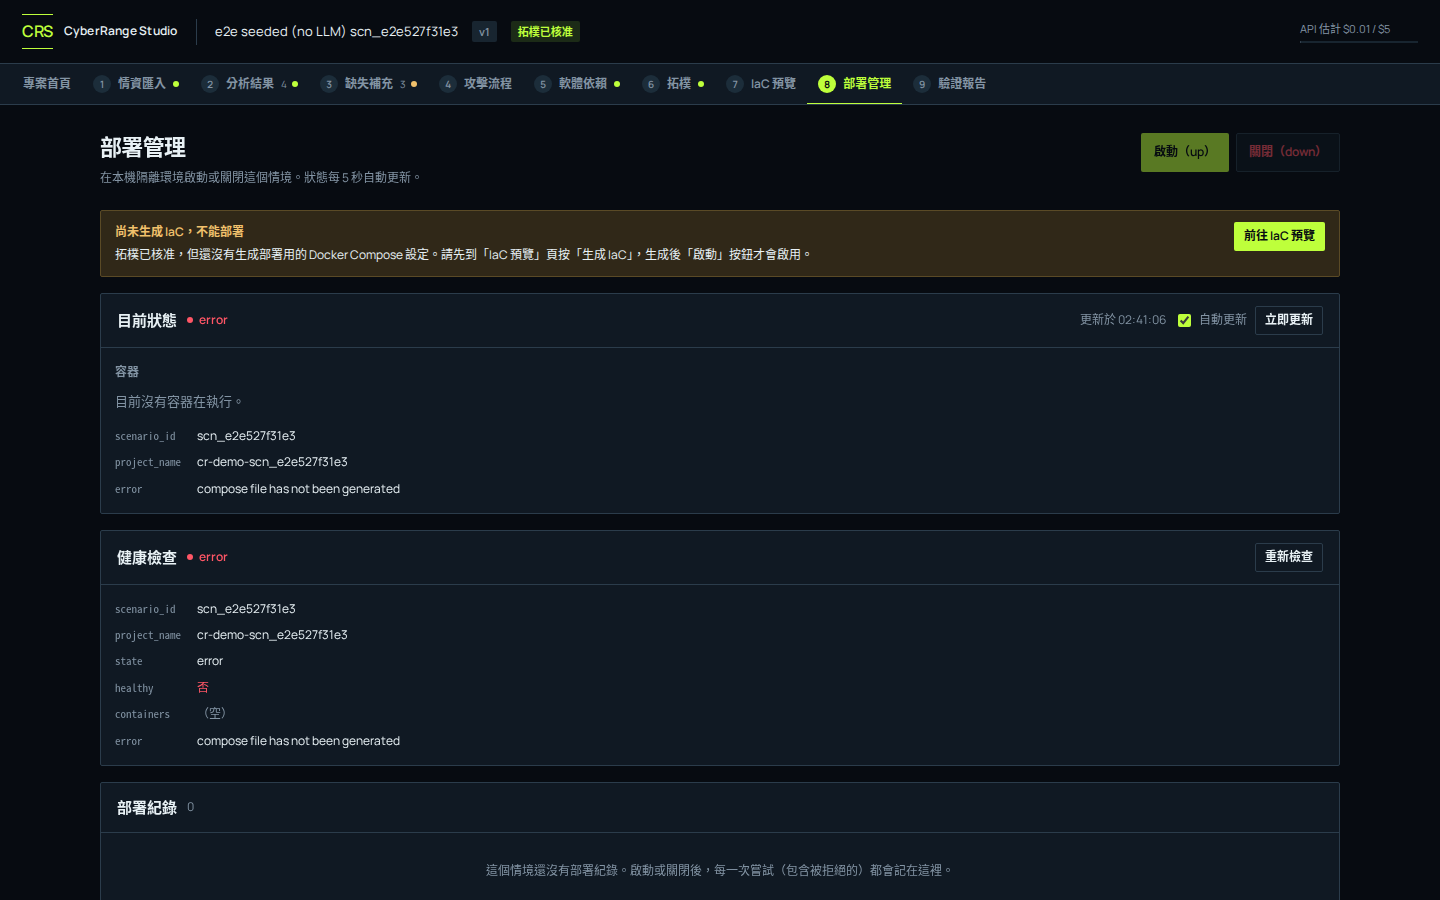
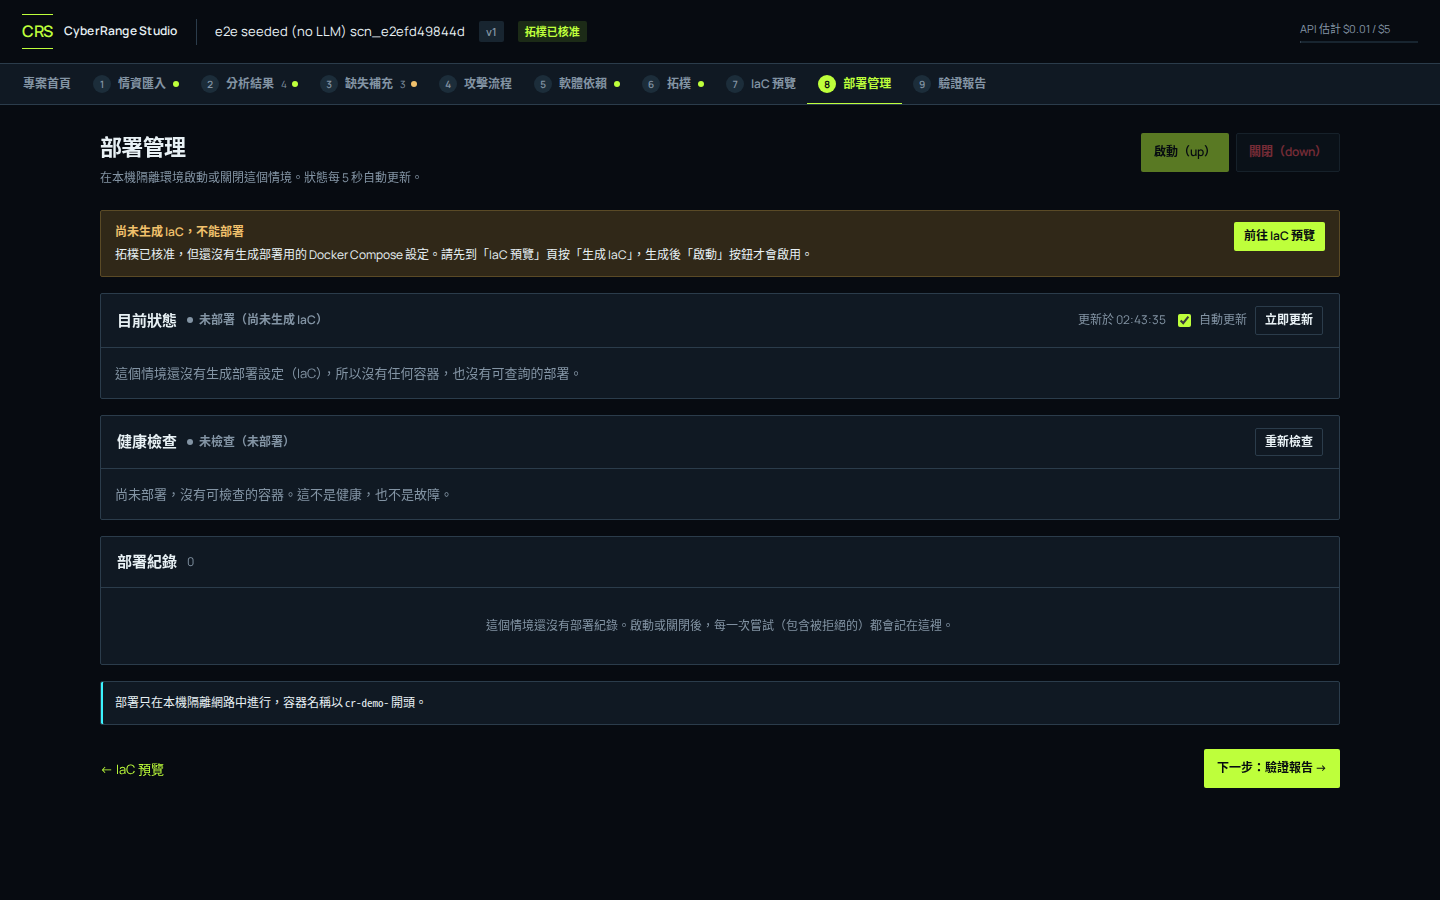
web: plain not-deployed status, short-viewport console fix; e2e for deploy record reasons

diff --git a/apps/web/src/pages/DeployPage.tsx b/apps/web/src/pages/DeployPage.tsx
@@ -91,6 +91,8 @@ function Body({ ir }: { ir: ScenarioIR }) {
   const rest = s && typeof s === "object" && !Array.isArray(s)
     ? Object.fromEntries(Object.entries(s).filter(([k]) => !["state", "status", "containers", "services"].includes(k)))
     : null;
+  // The status endpoint answers state=error with this text when no compose file exists. That is "nothing to deploy yet", not a fault.
+  const noCompose = (v: any) => !!v && typeof v === "object" && v.error === "compose file has not been generated" && !(Array.isArray(v.containers) && v.containers.length);
   const ACTION: Record<string, string> = { up: "啟動", down: "關閉" };
   const rawRecords: any[] = Array.isArray(records.data?.records) ? records.data.records : [];
   const history = rawRecords.map((r) => ({ id: r.id, action: r.action, state: r.state, at: r.recorded_at, reason: recordReason(r.details) }));
@@ -131,7 +133,9 @@ function Body({ ir }: { ir: ScenarioIR }) {
       <div className="card flush">
         <div className="card-head">
           <h2>目前狀態</h2>
-          {state && <span className={`pill ${stateClass(state)}`} data-testid="deploy-state">{state}</span>}
+          {state && (noCompose(s)
+            ? <span className="pill status-NOT_TESTED" data-testid="deploy-state" title="後端狀態：error（compose file has not been generated）">未部署（尚未生成 IaC）</span>
+            : <span className={`pill ${stateClass(state)}`} data-testid="deploy-state">{state}</span>)}
           <div className="right">
             {status.data && lastAt && <span className="muted" style={{ fontSize: 12 }}>更新於 {lastAt.toLocaleTimeString("zh-TW", { hour12: false })}</span>}
             <label className="row muted" style={{ gap: 5, fontSize: 12 }}>
@@ -144,7 +148,8 @@ function Body({ ir }: { ir: ScenarioIR }) {
           {status.error && <ApiNotice error={status.error} what="部署狀態" onRetry={() => status.reload()} />}
           {status.error && status.data && <div className="muted" style={{ fontSize: 12 }}>以下是最後一次成功取得的狀態，可能已過期。</div>}
           {status.loading && !status.data && !status.error && <Busy label="讀取部署狀態…" />}
-          {status.data !== null && status.data !== undefined && (
+          {noCompose(s) && <span className="muted" style={{ fontSize: 13 }}>這個情境還沒有生成部署設定（IaC），所以沒有任何容器，也沒有可查詢的部署。</span>}
+          {status.data !== null && status.data !== undefined && !noCompose(s) && (
             <>
               {containers !== undefined && (
                 <div>
@@ -162,7 +167,9 @@ function Body({ ir }: { ir: ScenarioIR }) {
       <div className="card flush">
         <div className="card-head">
           <h2>健康檢查</h2>
-          {typeof health.data?.state === "string" && <span className={`pill ${stateClass(health.data.state)}`} data-testid="health-state">{health.data.state}</span>}
+          {typeof health.data?.state === "string" && (noCompose(health.data)
+            ? <span className="pill status-NOT_TESTED" data-testid="health-state">未檢查（未部署）</span>
+            : <span className={`pill ${stateClass(health.data.state)}`} data-testid="health-state">{health.data.state}</span>)}
           <div className="right">
             {health.loading && <span className="spinner" />}
             <button className="small" onClick={() => health.reload()} disabled={health.loading}>重新檢查</button>
@@ -172,6 +179,7 @@ function Body({ ir }: { ir: ScenarioIR }) {
           {health.error ? <ApiNotice error={health.error} what="健康檢查" onRetry={() => health.reload()} />
             : health.loading && !health.data ? <Busy label="檢查中…" />
             : health.data === null || health.data === undefined ? <span className="muted">沒有健康檢查結果。</span>
+            : noCompose(health.data) ? <span className="muted" style={{ fontSize: 13 }}>尚未部署，沒有可檢查的容器。這不是健康，也不是故障。</span>
             : <DataView data={health.data} />}
         </div>
       </div>

diff --git a/apps/web/src/styles/theme.css b/apps/web/src/styles/theme.css
@@ -430,7 +430,12 @@ a.next-action-link { display: block; } a.next-action-link:hover { text-decoratio
 .console-body { display: grid; grid-template-rows: 0fr; transition: grid-template-rows var(--standard) var(--ease); }
 .console.open .console-body { grid-template-rows: 1fr; }
 .console-body > div { overflow: hidden; min-height: 0; }
-.console-list { height: 210px; max-height: 28vh; overflow: auto; border-top: 1px solid var(--border); margin: 0; padding: 10px 16px; list-style: none; }
+.console-list { height: auto; max-height: min(210px, 28vh); overflow: auto; border-top: 1px solid var(--border); margin: 0; padding: 10px 16px; list-style: none; }
+/* Short viewports: an open console must not squeeze the canvas until the legend and minimap cover the nodes. */
+@media (max-height: 800px) {
+  .console-list { max-height: 18vh; }
+  .canvas-col:has(.console.open) .react-flow__minimap { display: none; }
+}
 .console-empty { display: flex; align-items: center; gap: 15px; padding: 16px; font-size: 12px; color: var(--text-dim); }
 .finding { display: flex; width: 100%; justify-content: flex-start; align-items: flex-start; gap: 12px; text-align: left; white-space: normal; border: 0; border-bottom: 1px solid var(--border); border-radius: 0; padding: 12px 4px; background: transparent; font-weight: 400; }
 .finding:active:not(:disabled) { transform: none; }

diff --git a/reports/overnight/worker-reports/frontend-eng.md b/reports/overnight/worker-reports/frontend-eng.md
@@ -60,6 +60,15 @@ CR_ENV_FILE=/home/tyc4d/cr-project/.env CR_BUDGET_HARD_CAP_USD=5 CR_BUDGET_STOP_
 - 缺失頁在尚未執行依賴分析時提示「清單可能還不完整」（qa-ux Medium）。
 - 部署 up／down 失敗時只顯示一次原因＋結束代碼，完整輸出收合（qa-admin 里程碑 9：同一段 stderr 重複多次把目前狀態擠到下面）。**未以真實失敗驗證**。
 
+## 批次 4
+
+- 部署頁：從未生成 IaC 的情境，狀態原本顯示紅色 `error`＋英文 `compose file has not been generated`，第一次使用的人會以為壞了。改為灰色「未部署（尚未生成 IaC）」與一句中文說明；健康檢查顯示「未檢查（未部署）」，不寫成健康也不寫成故障。只在後端回報的正是這個原因且沒有任何容器時才套用，其他 error 照原樣顯示。
+- 部署紀錄原因：以**真實失敗紀錄**驗證通過（對自己的 API 送出一次真的會失敗的 down，頁面顯示「尚未生成 IaC（沒有 compose 檔）」）。截圖 07。批次 2 表中該項「未驗證」已補上。
+- 流程頁 1280×720 展開設計檢查的重疊（qa-ux）：設計檢查清單改為依內容高度、矮螢幕上限 18vh，並在展開時隱藏小地圖。**部分改善**：圖例與縮放列不再蓋住節點（截圖 08），但畫布縮小後不會自動重新置中，節點可能被上方工具列遮到一部分，需按「適合畫面」；發現很多筆時清單仍會佔 18vh。
+- `qa-fixes`＋`motion`：10 passed；`tsc`、`npm run build` 通過。
+
+觀察到但沒有處理（列給 Lead 判斷）：流程頁的設計檢查對「4 個行為的目標主機都是 unknown」顯示「沒有發現問題／通過」。加一條檢查規則屬於新增檢查項目，我沒有自行加。
+
 ## 完整 `npm run e2e` 結果（未通過）
 
 | 執行 | 後端 | 結果 |
@@ -78,5 +87,4 @@ CR_ENV_FILE=/home/tyc4d/cr-project/.env CR_BUDGET_HARD_CAP_USD=5 CR_BUDGET_STOP_
 ## 尚未完成
 
 - 完整 `npm run e2e` 尚未通過（見上）；部署／驗證段在本輪從未被 e2e 執行到。
-- 流程頁 1280×720 展開設計檢查時圖例／縮放列／minimap 重疊（qa-ux）：未處理。
-- 422 白話訊息、部署紀錄原因兩項沒有 e2e 覆蓋。
+- 422 白話訊息、部署 up／down 失敗的精簡顯示（CommandFailure）沒有 e2e 覆蓋，也沒有用真實失敗看過畫面。
